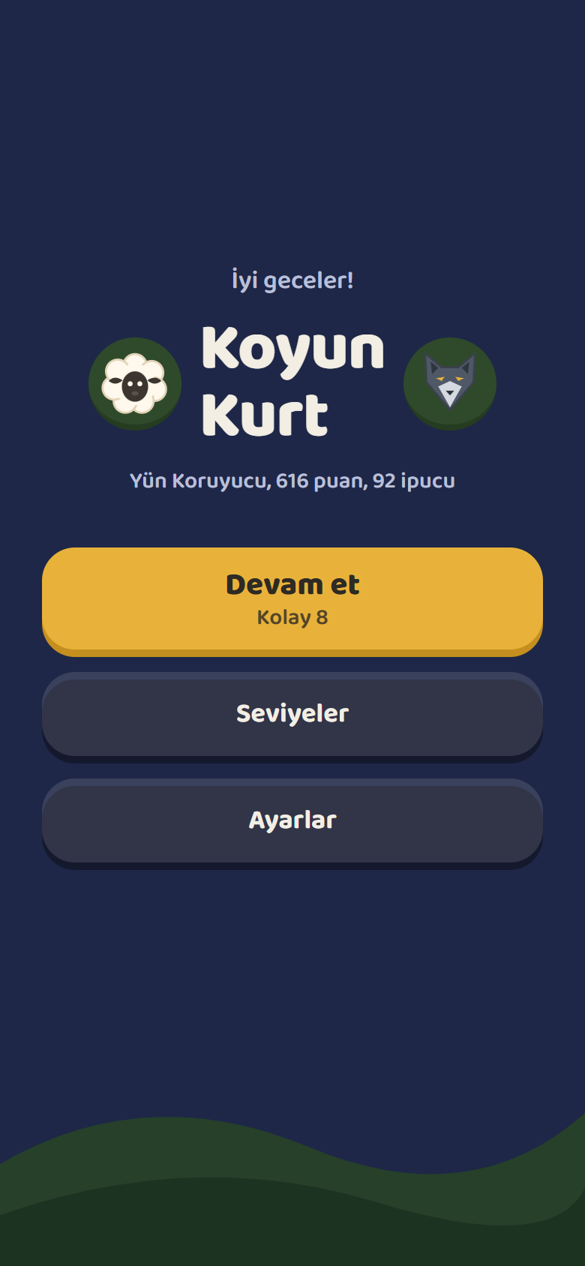
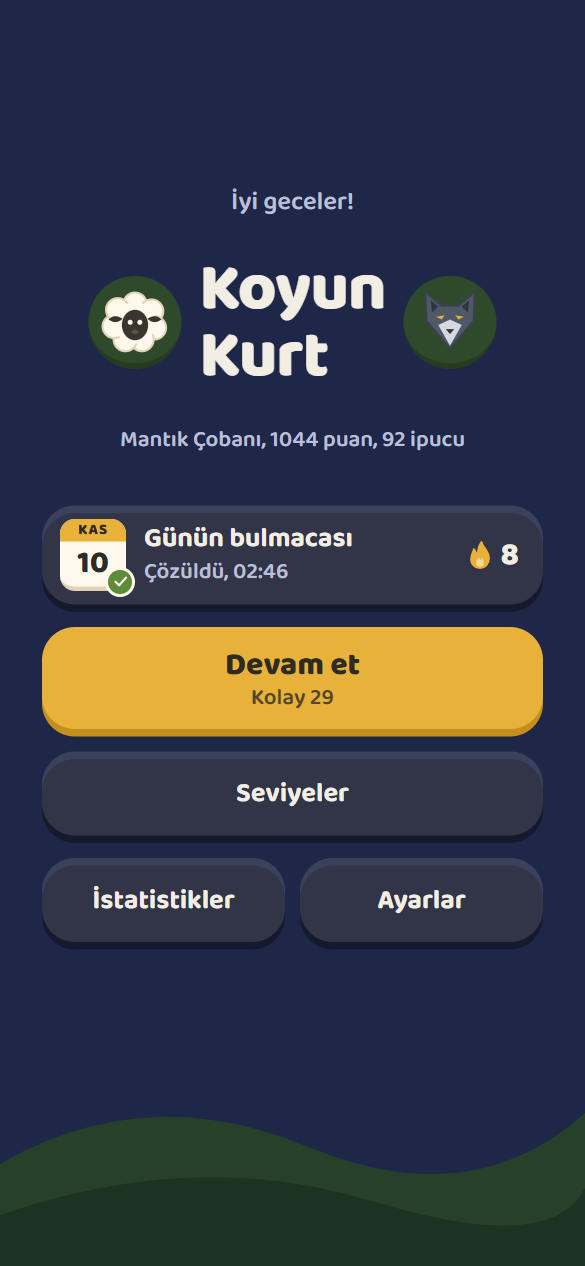
docs(readme): describe the daily puzzle, statistics and reminders

Changed region(s): [[0.0615, 0.1848, 0.9538, 0.7701], [0.4, 0.154, 0.6154, 0.1848]]

diff --git a/README.tr.md b/README.tr.md
@@ -2,7 +2,7 @@
 
 # Koyun & Kurt
 
-Telefon için sakin bir mantık bulmacası: 6×6'lık merayı koyun ve kurtlarla doldur; aynı hayvan yan yana üç kez gelmesin, her satır ve sütunda 3 koyun ve 3 kurt olsun. Hepsi kontrol edilmiş 300 seviye, tamamen internetsiz.
+Telefon için sakin bir mantık bulmacası: 6×6'lık merayı koyun ve kurtlarla doldur; aynı hayvan yan yana üç kez gelmesin, her satır ve sütunda 3 koyun ve 3 kurt olsun. Hepsi kontrol edilmiş 300 seviye ve her gün yeni bir günün bulmacası, tamamen internetsiz.
 
 **[App Store'dan indir](https://apps.apple.com/app/koyun-kurt-sheep-wolf/id6829908940)**
 
@@ -11,24 +11,29 @@ Telefon için sakin bir mantık bulmacası: 6×6'lık merayı koyun ve kurtlarla
 - **300 sabit seviye:** 6 zorluk (En Kolay, Kolay, Orta, Zor, Çok Zor, İmkânsız), her birinde 50 seviye. Her bulmacanın tek bir çözümü var.
 - **Zorluk başlangıç taşlarıyla:** En Kolay'da 36 hücrenin 24'ü dolu başlar, İmkânsız'da sadece 7'si.
 - **İstediğin zorluktan başla:** her zorluğun ilk seviyesi açık; zorluğun içinde bir seviyeyi bitirince sonraki açılır. "Devam et" en son oynadığın zorluktan sürer, seviye seçme ekranında yıldızların görünür.
-- **Her seviyenin bir süresi var:** her zorluğun sabit bir süresi var, En Kolay'da 30 saniyeden İmkânsız'da 7 dakikaya kadar. Süre dolarsa seviye kaybedilir ve yeniden denersin. Uygulama arka plandayken süre durur; süre sınırı Ayarlar'dan kapatılabilir.
+- **Günün bulmacası ve seri:** her gün yeni bir bulmaca; telefonda tarihten üretilir, sunucu olmadan herkes aynı bulmacayı alır. Hafta Pazartesi Kolay ile başlar, Pazar İmkânsız ile biter. Her gün çözerek serini büyüt; çözdüğün her gün seri takvimine bir koyun gelir.
+- **İstatistikler:** süren ve en uzun seri, beş haftalık takvim, sonraki unvana ilerleme; her zorlukta bitirilen seviye, yıldız, en iyi ve ortalama süre.
+- **Günlük hatırlatma (isteğe bağlı):** seçtiğin saatte, yalnızca günün bulmacasını henüz çözmediğin günlerde gelen yerel bildirim. İzin yalnızca açtığında istenir, hiçbir şey sunucudan geçmez.
+- **Her seviyenin bir süresi var:** her zorluğun sabit bir süresi var, En Kolay'da 30 saniyeden İmkânsız'da 7 dakikaya kadar; En Kolay'ın ilk 5 seviyesi süresiz, yeni oyuncu önce kuralları öğrensin. Süre dolarsa seviye kaybedilir ve yeniden denersin. Süreye dokununca oyun durur; uygulama arka plana geçince de durur. Süre sınırı Ayarlar'dan kapatılabilir.
+- **Nedenini söyleyen ipucu:** ipucu bir sonraki mantık adımını ve nedenini gösterir ("2. sütunda iki kurt yan yana; yanlarına koyun gelmeli"), gerekçe olan taşları vurgular; yanlış bir taş koyduysan önce onu kaldırır. 300 seviyenin hepsi yalnızca ipucuyla bitirilebilir. Daha az ipucu, daha çok yıldız demek; her gün 5 yeni ipucu gelir.
+- **Geri al:** hamlelerini tek tek geri al, Sıfırla da dahil.
+- **Hatalar tahta dolunca görünür:** kırmızı işaretler ve tek kısa ses ancak bütün hücreler dolunca gelir, rastgele dokunarak bulmaca çözülemez. Ekrandaki mesaj neyin yanlış olduğunu söyler.
+- **En iyi süreler:** her seviye en hızlı süreni saklar, geçince "Yeni rekor!" görünür.
 - **Kaldığın yerden devam:** seviyeden çıksan da uygulamayı kapatsan da tahta, ipuçları ve süre döndüğünde seni bekler.
-- **Hatanı duy:** yan yana üç koyun gelince meleme, üç kurt gelince uluma başlar ve sen düzeltene kadar susmaz. Ekrandaki mesaj neyin yanlış olduğunu söyler.
-- **İpucu ve yıldızlar:** ipucu boş ya da yanlış bir hücreyi düzeltir. Daha az ipucu, daha çok yıldız demek; her gün 5 yeni ipucu gelir.
 - **Saate göre gökyüzü:** sabah, öğle, akşam ve gece renkleri. Tahta ve taşlar hep aynı kalır.
-- **Çizilmiş taşlar ve sesler:** yuvarlak koyun ile köşeli kurt sadece şekilden ayırt edilebilir. Bütün sesler projede sentezlendi.
-- **Türkçe ve İngilizce**, ilk açılışta eğitim, ses, titreşim ve süre sınırı ayarları, sonucu görsel olarak paylaşma.
+- **Çizilmiş taşlar ve sesler:** yuvarlak koyun ile köşeli kurt sadece şekilden ayırt edilebilir. Bütün sesler çizimlere uyacak şekilde projede sentezlendi.
+- **Türkçe ve İngilizce**, ilk açılışta eğitim, ses, titreşim ve süre sınırı ayarları, sonucu (seviyeler ve günün bulmacası) görsel olarak paylaşma.
 - **İnternetsiz ve gizli:** hesap yok, reklam yok, hiçbir veri telefondan çıkmaz.
 
 ## Ekran Görüntüleri
 
-| Menü | Oyun | Seviyeler |
+| Menü | Oyun | İstatistikler |
 |---|---|---|
-| ![Ana menü](docs/menu.png) | ![Hata olarak işaretlenmiş üç koyun](docs/game-error.png) | ![Gece seviye seçme ekranı](docs/levels-night.png) |
+| ![Günün bulmacası kartıyla ana menü](docs/menu.png) | ![Bir sonraki adımı açıklayan ipucu](docs/game.png) | ![Seri takvimiyle istatistikler](docs/stats.png) |
 
-| Seviye tamamlandı | Eğitim | Türkçe, gece |
+| Günün bulmacası çözüldü | Seviyeler | Türkçe, gece |
 |---|---|---|
-| ![Seviye tamamlandı kartı](docs/complete.png) | ![Eğitim adımı](docs/tutorial.png) | ![Gece Türkçe menü](docs/menu-tr-night.png) |
+| ![En uzun seriyle çözülen günün bulmacası](docs/daily.png) | ![Gece seviye seçme ekranı](docs/levels-night.png) | ![Gece Türkçe menü](docs/menu-tr-night.png) |
 
 ## Kullanılan Teknolojiler
 
@@ -36,6 +41,7 @@ Telefon için sakin bir mantık bulmacası: 6×6'lık merayı koyun ve kurtlarla
 - TypeScript
 - Zustand ve AsyncStorage (ilerleme telefonda kalır)
 - React Native Reanimated, react-native-svg, expo-audio, expo-haptics, expo-sharing
+- Günlük hatırlatma için expo-notifications (yalnızca yerel bildirim, push yok)
 - tsx ile Node.js test aracı
 - App Store derlemesi için EAS Build ve EAS Submit
 
@@ -54,12 +60,12 @@ npm ci
 npx expo start
 ```
 
-Tarayıcıda web sürümünü açmak için `w` tuşuna bas. Telefonda Expo Go ile açmak için Expo Go sürümünün projenin Expo SDK sürümüyle aynı olması gerekir.
+Tarayıcıda web sürümünü açmak için `w` tuşuna bas. Telefonda Expo Go ile açmak için Expo Go sürümünün projenin Expo SDK sürümüyle aynı olması gerekir. Hatırlatmalar için gerçek bir derleme gerekir; bildirimler web'de ve Expo Go'da çalışmaz.
 
 ### Testler ve araçlar
 
 ```bash
-npm test                    # seviye verisi, kilitler, kural motoru, süre sınırı ve kayıtlar
+npm test                    # seviyeler, kural motoru, ipucu, günün bulmacası, seri, istatistik, hatırlatma ve kayıtlar
 npm run lint
 npm run generate-levels     # src/constants/levelData.ts dosyasını yeniden üretir (her seferinde aynı sonuç)
 python scripts/make-sounds.py   # sesleri sentezler (numpy, scipy, ffmpeg)
@@ -76,14 +82,20 @@ npx eas-cli build -p ios --profile production --auto-submit
 
 - Tek çözümlü bulmaca üretmeyi öğrendim: önce geri izleme (backtracking) ile kurallara uyan dolu bir tahta kuruyorum, sonra hücreleri tek tek siliyorum; bulmacanın tek bir cevabı kalmayınca o hücreyi geri koyuyorum.
 - Üretilen içeriği tekrarlanabilir yapmayı öğrendim: tohumlu bir rastgele sayı üreteci her seferinde aynı 300 seviyeyi yazıyor, testler de her birini kontrol ediyor.
-- Oyun mantığını ekranlardan ayrı tuttum. Kural motoru düz TypeScript olduğu için telefona gerek kalmadan Node ile test edebiliyorum.
+- Sunucusuz günün bulmacası yapmayı öğrendim: tarih tohum oluyor, her telefon aynı bulmacayı üretiyor. Yalnızca ipucu motorunun cevap açmadan çözebildiği bulmacaları tutuyorum; her gün sadece mantıkla çözülebiliyor.
+- Kendini açıklayan bir ipucu motoru yazdım: bir hücreyi kesinleştiren en basit kuralı arıyor (yan yana iki, iki taş arası boşluk, dolmuş satır), yoksa bütün bir satır ya da sütun üzerinden akıl yürütüyor. Bir test 300 seviyenin hepsini yalnızca ipucuyla çözüyor.
+- Hataları ancak tahta dolunca göstermeyi öğrendim; oyun deneme yanılmayı değil akıl yürütmeyi ödüllendiriyor.
+- Oyun mantığını ekranlardan ayrı tuttum. Kural motoru düz TypeScript olduğu için telefona gerek kalmadan Node ile test edebiliyorum; seviye ve günün bulmacası ekranları da tek bir oyun alanı bileşenini paylaşıyor.
 - Eskiyebilen durumu saklamamayı öğrendim: kırmızı hata işaretleri her hücrede tutuluyordu ve Sıfırla, başta verilen taşlar için bunları yeniden hesaplamayı unutuyordu. Artık tahtayı değiştiren her şey işaretleri yeniden hesaplayan tek bir fonksiyondan geçiyor; bir test de 300 seviyede 18.000 rastgele hamle oynayıp işaretlerin tahtayla hep aynı kaldığını kontrol ediyor.
+- Seriyi ve istatistikleri ayrı sayaçlar tutmadan kaydedilen sonuçlardan hesaplamayı öğrendim; sayılar kayıtla hiçbir zaman çelişemiyor.
+- Yerel bildirimleri tekrarlayan tek bir bildirim yerine önümüzdeki 7 güne tek tek kurmayı öğrendim; bulmacası çözülen gün atlanabiliyor. İzni de oyuncu hatırlatmayı açtığı anda istiyorum.
 - Yarım kalan seviyeyi güvenle kaydetmeyi öğrendim: oyuncu çıkınca ya da uygulama arka plana geçince tahta ve süre telefona yazılıyor; geri okunan her şey denetleniyor, bozuk ya da eski bir kayıt seviyeyi baştan açıyor.
-- React Native'in AppState'iyle sayacı durdurmayı öğrendim; süre sadece oyun ekrandayken işliyor.
+- Kaydı bozuk dosyaya dayanıklı yapmayı öğrendim: zustand'ın JSON depolaması bozuk bir dosyayı yüklemeyi hiç bitirmiyordu; onu sardım, geri okunan her alanı oyuncunun ilerlemesini silmeden denetliyorum.
+- React Native'in AppState'iyle oyunu duraklatmayı öğrendim; süre sadece oyun ekrandayken işliyor.
 - Durumu Zustand ile yönetip AsyncStorage ile kaydettim; seviye biçimi değişince sürüm numarası ve geçiş (migration) ekledim.
 - Expo Go sadece içinde gelen paketleri çalıştırıyor. Bu yüzden önce yerel Firebase'den JavaScript SDK'sına geçtim, sonra oyunu internetsiz tutmak için çevrimiçi özellikleri kaldırdım.
 - Taşları SVG ile çizdim ve onları rengin değil şeklin ayırt etmesi için tasarladım.
-- Hata sürdükçe sesi döngüde çaldırmayı ve sesleri kayıt yerine kendim sentezlemeyi öğrendim.
+- Sesleri kayıt yerine Python ile kendim sentezlemeyi, ses yüksekliklerini eşitlemeyi ve aynı anda tek kısa ses çalarak seslerin üst üste binmemesini öğrendim.
 - Sistemdeki "hareketi azalt" ayarına uymayı ve her hücreyi ekran okuyucu için etiketlemeyi öğrendim.
 - EAS Build ile Android APK'yı bulutta derledim.
 - Windows'tan App Store'a çıktım: EAS ile bulutta iOS derlemesi, gizlilik bildirimi (privacy manifest) ve gizlilik politikası sayfası, istenen boyutlarda mağaza görselleri; App Review ek bilgi isteyince inceleme notları ve ekran kaydıyla ikinci gönderim.

diff --git a/README.md b/README.md
@@ -2,7 +2,7 @@
 
 # Sheep & Wolf
 
-A calm logic puzzle for your phone: fill a 6×6 pasture with sheep and wolves so that no three of the same animal stand side by side and every row and column holds 3 of each. 300 hand-checked levels, fully offline.
+A calm logic puzzle for your phone: fill a 6×6 pasture with sheep and wolves so that no three of the same animal stand side by side and every row and column holds 3 of each. 300 hand-checked levels and a new daily puzzle every day, fully offline.
 
 **[Download on the App Store](https://apps.apple.com/app/koyun-kurt-sheep-wolf/id6829908940)**
 
@@ -11,24 +11,29 @@ A calm logic puzzle for your phone: fill a 6×6 pasture with sheep and wolves so
 - **300 fixed levels** across 6 difficulties (Easiest, Easy, Medium, Hard, Very Hard, Impossible), 50 each. Every puzzle has exactly one solution.
 - **Difficulty by starting pieces:** Easiest starts with 24 of 36 cells filled, Impossible with only 7.
 - **Start at any difficulty:** the first level of every difficulty is open; inside a difficulty, finishing a level unlocks the next one. Continue picks up the difficulty you played last, and the level picker shows your stars.
-- **A clock for every level:** each difficulty has a fixed time limit, from 30 seconds on Easiest to 7 minutes on Impossible. If it runs out, the level is lost and you try again. The clock pauses while the app is in the background, and the limit can be turned off in Settings.
+- **A daily puzzle and a streak:** a new puzzle every day, generated on the phone from the date, so everyone gets the same one without a server. The week starts with Easy on Monday and ends with Impossible on Sunday. Solve it every day to grow your streak; every solved day puts a sheep on the streak calendar.
+- **Statistics:** current and longest streak, a five-week calendar, progress towards the next title, and for each difficulty the levels finished, stars, best time and average time.
+- **Daily reminder (optional):** a local notification at the hour you pick, only on days you haven't solved the daily puzzle yet. Permission is asked only when you turn it on, and nothing goes through a server.
+- **A clock for every level:** each difficulty has a fixed time limit, from 30 seconds on Easiest to 7 minutes on Impossible; the first 5 Easiest levels are untimed so new players can learn the rules first. If time runs out, the level is lost and you try again. Tap the clock to pause; the game also pauses when the app goes to the background. The limit can be turned off in Settings.
+- **Hints that explain:** a hint shows the next logical step and why ("Column 2 has two wolves side by side, so a sheep goes next to them") and highlights the pieces behind it; if you placed a wrong piece, it removes that first. All 300 levels can be finished with hints alone. Fewer hints mean more stars, and you get 5 new hints every day.
+- **Undo:** take back your moves one by one, Reset included.
+- **Mistakes show when the board is full:** red marks and one short sound appear only once every cell is filled, so tapping at random can't solve a puzzle. A clear message says what is wrong.
+- **Best times:** every level keeps your fastest time, and beating it shows "New record!".
 - **Pick up where you left off:** leave a level or close the app, and the board, the hints and the clock are waiting when you come back.
-- **Hear your mistakes:** three sheep in a row start bleating and three wolves start howling, until you fix it. A clear message says what is wrong.
-- **Hints and stars:** a hint fixes one empty or wrong cell. Fewer hints mean more stars; you get 5 new hints every day.
 - **Sky that follows the clock:** morning, afternoon, evening and night colors. The board and pieces stay the same.
-- **Drawn pieces and sounds:** the round sheep and the angular wolf can be told apart by shape alone. All sounds are synthesized in the project.
-- **Turkish and English**, tutorial on first launch, sound, haptics and time limit settings, share your result as an image.
+- **Drawn pieces and sounds:** the round sheep and the angular wolf can be told apart by shape alone. All sounds are synthesized in the project to match the drawings.
+- **Turkish and English**, tutorial on first launch, sound, haptics and time limit settings, share your result (levels and the daily puzzle) as an image.
 - **Offline and private:** no account, no ads, no data leaves the phone.
 
 ## Screenshots
 
-| Menu | Game | Levels |
+| Menu | Game | Statistics |
 |---|---|---|
-| ![Main menu](docs/menu.png) | ![A sheep triple marked as an error](docs/game-error.png) | ![Level picker at night](docs/levels-night.png) |
+| ![Main menu with the daily puzzle card](docs/menu.png) | ![A hint explaining the next step](docs/game.png) | ![Statistics with the streak calendar](docs/stats.png) |
 
-| Level complete | Tutorial | Turkish, night |
+| Daily puzzle solved | Levels | Turkish, night |
 |---|---|---|
-| ![Level complete card](docs/complete.png) | ![Tutorial step](docs/tutorial.png) | ![Turkish menu at night](docs/menu-tr-night.png) |
+| ![Daily puzzle solved with a new longest streak](docs/daily.png) | ![Level picker at night](docs/levels-night.png) | ![Turkish menu at night](docs/menu-tr-night.png) |
 
 ## Tech Stack
 
@@ -36,6 +41,7 @@ A calm logic puzzle for your phone: fill a 6×6 pasture with sheep and wolves so
 - TypeScript
 - Zustand with AsyncStorage (progress stays on the device)
 - React Native Reanimated, react-native-svg, expo-audio, expo-haptics, expo-sharing
+- expo-notifications for the daily reminder (local notifications only, no push)
 - Node.js test runner with tsx
 - EAS Build and EAS Submit for the App Store build
 
@@ -54,12 +60,12 @@ npm ci
 npx expo start
 ```
 
-Press `w` to open the web version in a browser. To run it on a phone with Expo Go, the Expo Go version has to match the project's Expo SDK.
+Press `w` to open the web version in a browser. To run it on a phone with Expo Go, the Expo Go version has to match the project's Expo SDK. Reminders need a real build, because notifications are not available on the web or in Expo Go.
 
 ### Tests and tools
 
 ```bash
-npm test                    # level data, unlocking, rule engine, time limit and saved games
+npm test                    # levels, rule engine, hints, daily puzzle, streaks, statistics, reminders and saves
 npm run lint
 npm run generate-levels     # rebuilds src/constants/levelData.ts (same result every time)
 python scripts/make-sounds.py   # synthesizes the sounds (numpy, scipy, ffmpeg)
@@ -76,14 +82,20 @@ npx eas-cli build -p ios --profile production --auto-submit
 
 - Generating puzzles with a single solution: I fill a valid board with backtracking, then remove cells one by one and put a cell back whenever the puzzle stops having exactly one answer.
 - Making generated content reproducible: a seeded random number generator writes the same 300 levels every time, and tests check each one.
-- Keeping the game logic out of the screens. The rule engine is plain TypeScript, so I can test it with Node without a phone.
+- Building a daily puzzle without a server: the date is the seed, so every phone generates the same puzzle. I only keep puzzles that the hint engine can solve without revealing an answer, so each day can be solved by reasoning alone.
+- Writing a hint engine that explains itself: it looks for the simplest rule that decides a cell (two in a row, a gap between two, a full row), then reasons about a whole row or column. A test solves all 300 levels with hints alone.
+- Showing mistakes only when the board is full, so the game rewards reasoning instead of trial and error.
+- Keeping the game logic out of the screens. The rule engine is plain TypeScript, so I can test it with Node without a phone; the level and daily screens share one play area component.
 - Not storing state that can go stale: the red error marks lived on each cell, and Reset forgot to recompute them for the given pieces. Now every board change goes through one function that recomputes them, and a test plays 18,000 random moves across all 300 levels to check that the marks always match the board.
+- Computing streaks and statistics from the saved results instead of keeping separate counters, so they can never disagree with the data.
+- Scheduling local notifications one by one for the next 7 days instead of one repeating notification, so a day whose puzzle is solved can be skipped, and asking for permission only when the player turns reminders on.
 - Saving an unfinished level safely: the board and the clock are written to the phone when the player leaves or the app goes to the background, and everything read back is validated, so a broken or outdated save simply starts the level fresh.
-- Pausing a timer with React Native's AppState, so time only runs while the game is on screen.
+- Making storage survive corrupt files: zustand's JSON storage never finished loading a broken file, so I wrapped it, and every field read back is checked without deleting the player's progress.
+- Pausing the game with React Native's AppState, so time only runs while the game is on screen.
 - Managing state with Zustand and saving it with AsyncStorage, including a version number and a migration when the level format changed.
 - Expo Go only runs packages that ship inside it, so I moved from native Firebase to the JavaScript SDK first, and later removed online features to keep the game offline.
 - Drawing the pieces with SVG and designing them so shape, not color, tells them apart.
-- Looping sounds while a mistake exists, and synthesizing the sounds myself instead of using recordings.
+- Synthesizing the sounds myself in Python instead of using recordings, matching their loudness, and playing one short sound at a time so they never pile up.
 - Respecting the system "reduce motion" setting and labeling every cell for screen readers.
 - Building an Android APK in the cloud with EAS Build.
 - Shipping to the App Store from Windows: cloud iOS builds with EAS, a privacy manifest and privacy policy page, store screenshots in the required sizes, and a second submission with review notes and a screen recording after App Review asked for more information.
